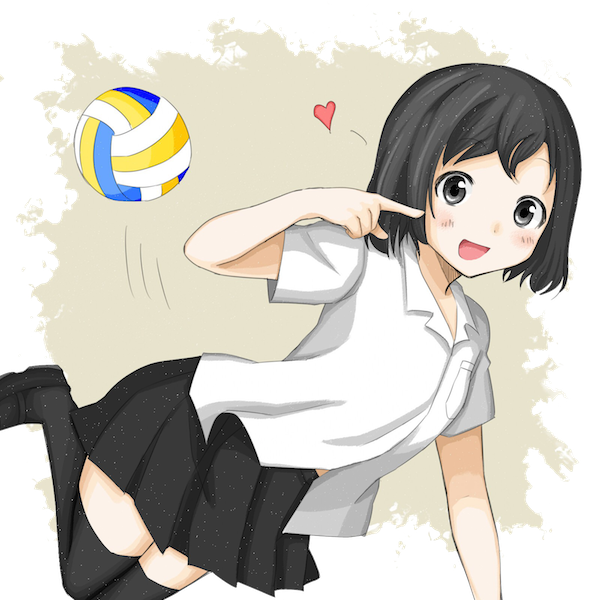
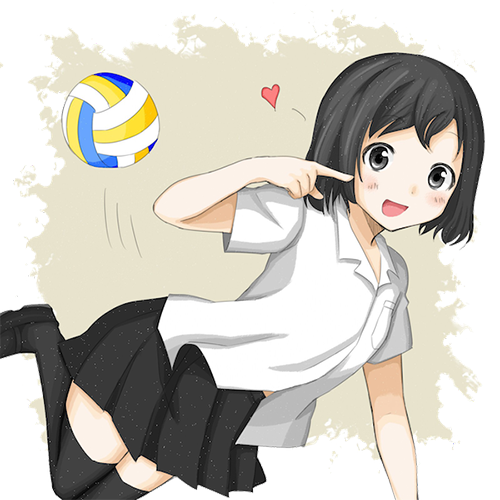
Photo optimized

diff --git a/style.css b/style.css
@@ -8,7 +8,10 @@
 a,
 a:visited,
 a:hover,
-a:active {
+a:active,
+h1,
+h2,
+h3 {
     color: inherit;
     text-decoration: none;
     margin: 0;
@@ -17,7 +20,7 @@ a:active {
 
 .needfade {
     -webkit-transform: translate3d(0, 40px, 0);
-            transform: translate3d(0, 40px, 0);
+    transform: translate3d(0, 40px, 0);
     opacity: 0;
     -webkit-transition: opacity 1s, -webkit-transform 1s;
     transition: opacity 1s, -webkit-transform 1s;
@@ -27,7 +30,7 @@ a:active {
 
 .wf-active .fade {
     -webkit-transform: translate3d(0, 0, 0);
-            transform: translate3d(0, 0, 0);
+    transform: translate3d(0, 0, 0);
     opacity: 1;
 }
 
@@ -77,7 +80,7 @@ p {
     opacity: 0;
 }
 
-#cover > * {
+#cover>* {
     position: relative;
 }
 
@@ -129,7 +132,7 @@ p {
 }
 
 #about-photo {
-    background-image: url("./img/photo.png");
+    background-image: url("./img/photo.jpg");
     background-size: cover;
     background-position: 54.25% 5%;
     height: 100vh;
@@ -226,7 +229,7 @@ p {
 }
 
 #design {
-    background-image: url("./img/design.png");
+    background-image: url("./img/design.jpg");
 }
 
 #travel {
@@ -256,7 +259,7 @@ p {
 }
 
 #code {
-    background-image: url("./img/coding.png");
+    background-image: url("./img/coding.jpg");
     background-position: 0 10%;
     width: 50%;
 }
